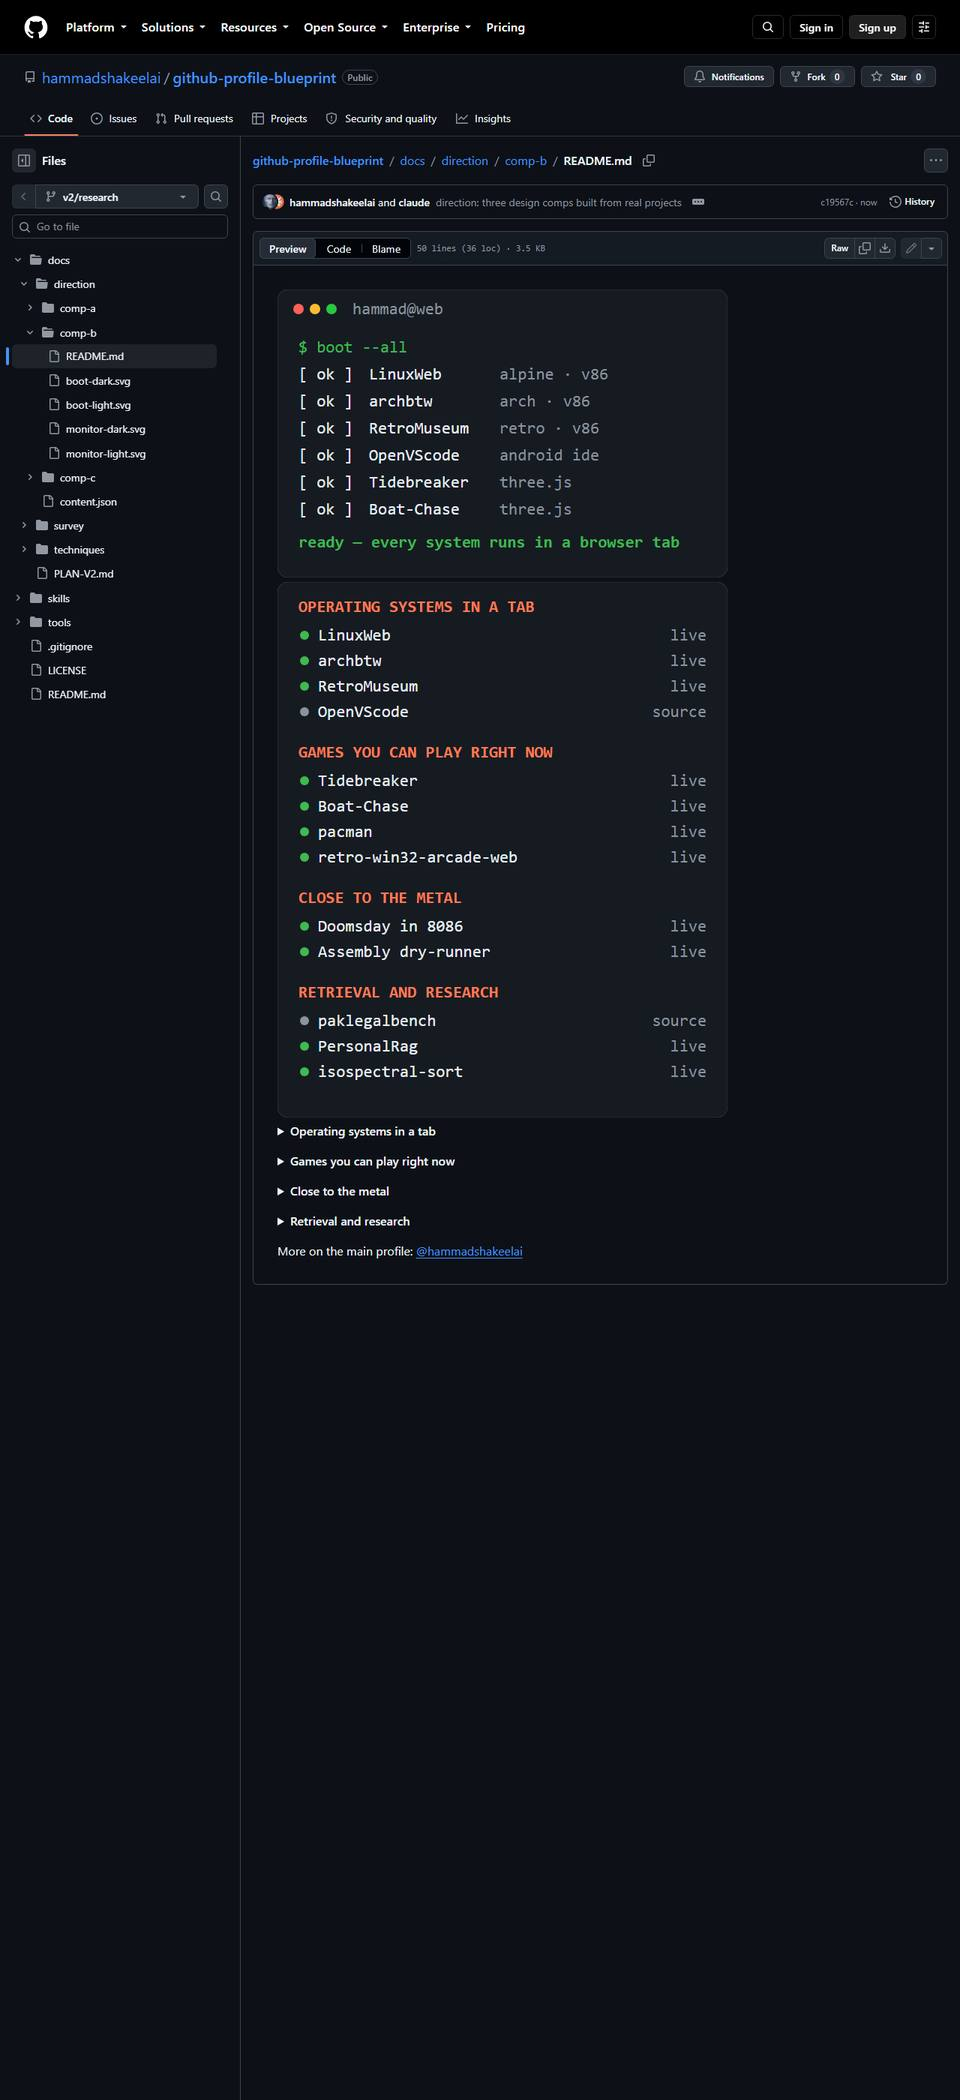
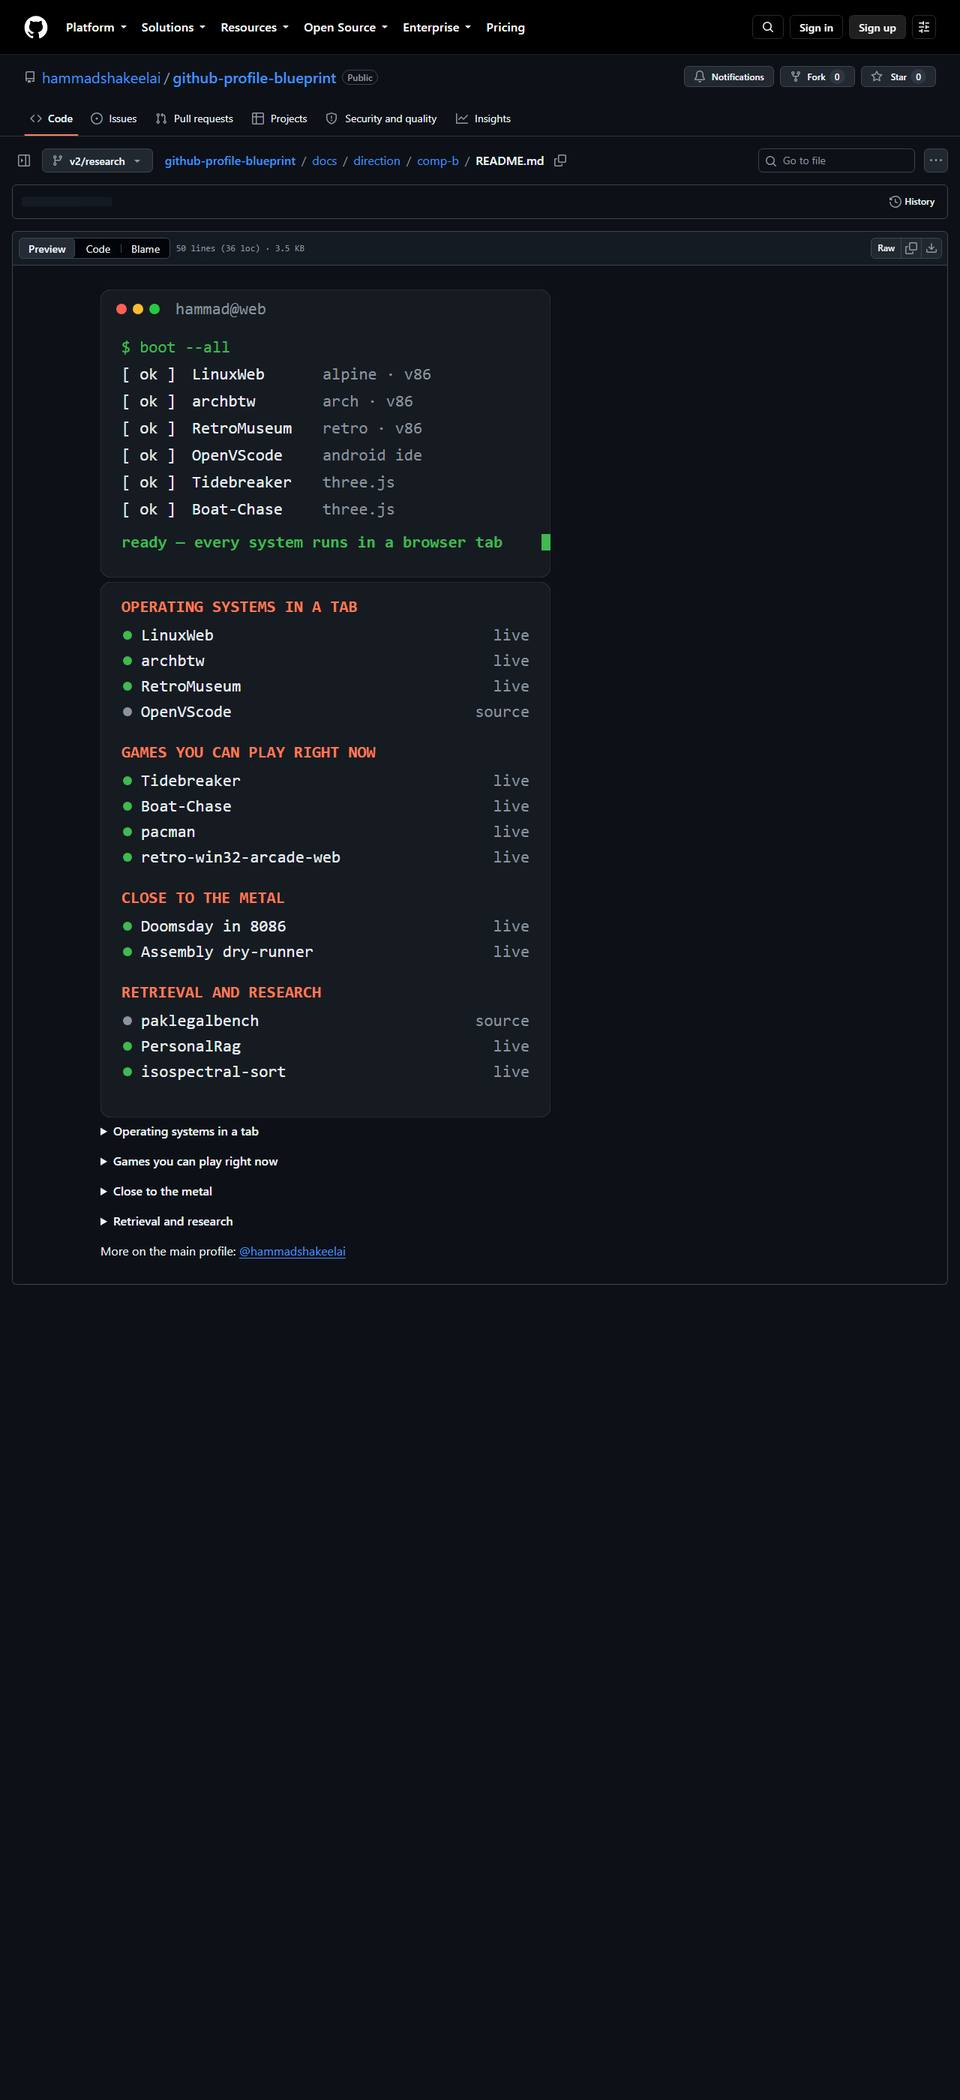
direction: choose C — the profile as a stack of browser windows
docs/DIRECTION.md records the three comps, what each is strong and weak at, and
the pick, with every design rule traced to survey or matrix evidence.

Chosen: C · Tabs. Each project is a browser window whose whole card links to
the running thing — eleven of the thirteen projects ship a live demo. Nothing
in the 446 surveyed profiles looks like it; the terminal/HUD genre that comp B
sits in is the most crowded, and comp A's typographic index matches a template
family of four profiles found in the survey. It also uses the only interaction
a README has — a link — as the core mechanic rather than an afterthought.

Shipping shape: a window header, six project windows, then A's grouped
markdown lists for everything else, so the reading matter stays real text.
Deliberately omitted: stats of any kind, contribution art, badges, typing
banners, and anything hosted off the repository.

Comp B's boot log now renders correctly on a phone after the frame-zero fix,
confirmed on GitHub.

diff --git a/docs/DIRECTION.md b/docs/DIRECTION.md
@@ -1,0 +1,104 @@
+# Design direction
+
+Three concepts, each built from real projects, rendered by GitHub, and captured
+at both widths in both schemes. The pick is **C · Tabs**, with A's markdown
+discipline folded in.
+
+Comps: [comp-a](direction/comp-a/README.md) · [comp-b](direction/comp-b/README.md)
+· [comp-c](direction/comp-c/README.md) — all generated by
+`tools/direction/build.py` from [content.json](direction/content.json).
+Screenshots in [direction/shots/](direction/shots/).
+
+## The brief the survey set
+
+Nobody in 446 surveyed profiles was both visually ambitious and legible on a
+phone. That gap is the target, so every comp had to satisfy the same rules,
+each traceable to evidence:
+
+| Rule | Evidence |
+|---|---|
+| Every SVG readable at 309px — text ≥ 22 units in a 600-wide viewBox | 55% of surveyed cards have their largest text under 11px on a phone; 90% of those only because the phone shrank them |
+| Markdown carries the reading; SVG carries identity | Real text reflows; an SVG panel just scales down |
+| Dark and light pairs through `<picture>` | Verified in Chromium, Firefox and WebKit |
+| Committed files only — no hosted generators | Free-tier services are the biggest single cause of breakage (309 dead image URLs) |
+| No image tables for layout | On a phone GitHub either crushes cards to 76px or scrolls the table sideways |
+| The first frame is the whole composition | A one-shot reveal rendered at desktop width and showed an empty panel at phone width, in two captures of the same page |
+| No `gradientTransform` animation | WebKit never animates it |
+| No star counts or invented metrics | The repositories have no stars to show, and fake numbers read as dishonest |
+
+## The three
+
+### A · Index — restrained and typographic
+
+A serif wordmark, one accent rule, then grouped markdown lists: name, one line,
+a live link and a source link. No panels, no motion.
+
+**Strong:** the most readable of the three at any width, because almost all of
+it is real text. Ages well. Cheapest to maintain — one SVG.
+**Weak:** it is also the most familiar. The survey found four profiles sharing
+one "Index Nº 001" layout of exactly this kind; done plainly, it reads as
+competent rather than memorable.
+
+### B · Boot — dense instrument panel
+
+A boot log that lists the systems, a process monitor of every project with
+live/source markers, then `<details>` for depth.
+
+**Strong:** density with legibility; the monitor makes thirteen projects
+scannable in one panel. Suits someone who builds operating systems.
+**Weak:** the most crowded genre in the survey — terminal and HUD profiles are
+everywhere (Dhyanesh006, SergiGTAr, 10ishk, getaudra, JackLuciano). It also
+states categories rather than inviting a click.
+
+### C · Tabs — the unexpected one
+
+Every project is a browser window with its own address bar, and the whole card
+is a link to the running thing. Chosen.
+
+**Strong:**
+- **Nothing in the survey looks like this.** Terminals, dashboards and stat
+  cards are everywhere; a profile built as a stack of browser windows is not.
+- **It comes from the work itself.** Eleven of the thirteen catalogued projects
+  ship a live demo on `github.io` — whole Linux systems, three.js games, 8086
+  assembly in DOSBox. The form states the through-line: it all runs in a tab.
+- **It uses the only interaction GitHub allows.** An SVG can't be clicked
+  inside, but an image can be wrapped in a link, so each window is a door to
+  something running. The survey found interactivity rare and, where present,
+  plain (marcizhu's chess board).
+- **Phone-first by construction:** cards stack in one column, each is a large
+  tap target, every line clears the legibility floor.
+
+**Weak, and accepted:** repeated window chrome risks monotony, and eight cards
+make a long page on a phone. Mitigated by capping the cards at six and listing
+the rest as text.
+
+## What ships
+
+C, with A's discipline:
+
+1. A window header — name, one line of what the work is.
+2. **Six** project windows, each a link to its live demo.
+3. Everything else as grouped markdown lists (A's pattern): name, one line,
+   live link, source link.
+4. A one-line footer to the main profile.
+
+Motion: none beyond a blinking cursor in the header. Every panel has a dark and
+a light file behind `<picture>`. Nothing is fetched from a third party.
+
+## What it deliberately leaves out
+
+- **Stats of any kind** — no stars, commits, streaks, language rings. The
+  repositories have no stars, and the survey's most-copied stat card is dead.
+- **Contribution art** — snake, pacman, 3D graphs. All are Action-maintained
+  and none says anything specific about this work.
+- **Badges.** 42% of surveyed profiles are more than half badges; none of them
+  is more legible for it.
+- **A typing banner.** 54% of `readme-typing-svg` instances are illegible on a
+  phone, and the effect says nothing the header can't.
+- **Anything hosted elsewhere.** Every image is committed to the repository.
+
+## Changing the pick
+
+All three are generated: `python tools/direction/build.py` rebuilds them from
+`content.json`. Swapping the shipped design means building from a different
+comp, not restarting — the rules above are shared by all three.

diff --git a/README.md b/README.md
@@ -16,8 +16,8 @@ branch.
 | 1 · Survey — 446 real profiles, their images, and the generators behind them | **done** |
 | 2 · Technique catalogue — each technique with real users and a verified example | **done** |
 | 3 · Capability matrix — Chromium, Firefox and WebKit, phone and desktop, dark and light | **done** |
-| 4 · Design direction — three rendered concepts, one chosen | in progress |
-| 5 · Build the profile | |
+| 4 · Design direction — three rendered concepts, one chosen | **done** |
+| 5 · Build the profile | next |
 | 6 · Fold everything back into the skill | |
 
 Plan: [docs/PLAN-V2.md](docs/PLAN-V2.md)
@@ -54,6 +54,14 @@ dark and light.
   a broken-image icon, Firefox and WebKit draw nothing.
 - **A pushed change takes about five minutes to appear** (the CDN serves the
   old file for `max-age=300`); a commit-pinned URL is fresh in seconds.
+
+## The design direction
+
+[docs/DIRECTION.md](docs/DIRECTION.md) — three concepts built from real
+projects, rendered by GitHub at both widths in both schemes, one chosen:
+**every project is a browser window you can tap into**, because everything here
+runs in a browser tab. Nothing in the 446 surveyed profiles looks like it, and
+it uses the only interaction a README has — a link — as the whole mechanic.
 
 ## What the technique catalogue verified
 

diff --git a/docs/PLAN-V2.md b/docs/PLAN-V2.md
@@ -135,7 +135,13 @@ WebKit findings already made.
 
 **Deliverable:** `docs/CAPABILITY-MATRIX.md`, with method so it can be re-run.
 
-### Phase 4 — Design direction
+### Phase 4 — Design direction — **done**
+
+> **Outcome:** `docs/DIRECTION.md` and three generated comps, each rendered by
+> GitHub and captured at 1280px and 390px in both schemes. Chose C · Tabs — the
+> profile as a stack of browser windows, each linking to a live demo — with A's
+> markdown discipline for everything below the cards. All three obey the same
+> evidence-derived rules, so switching the pick is a rebuild, not a restart.
 
 Only now. Three distinct concepts, each a real comp rendered at both widths, not
 a description:
@@ -191,7 +197,7 @@ auth for that account.
 - [x] Technique catalogue where each entry cites a real user and has a verified
       minimal example
 - [x] Capability matrix with every cell tested (except the hand-check rows)
-- [ ] Three rendered comps, one chosen with stated reasons
+- [x] Three rendered comps, one chosen with stated reasons
 - [ ] Profile rebuilt against it
 - [ ] Skill rewritten on the evidence
 - [ ] No claim anywhere without a citation or an `UNVERIFIED` tag
